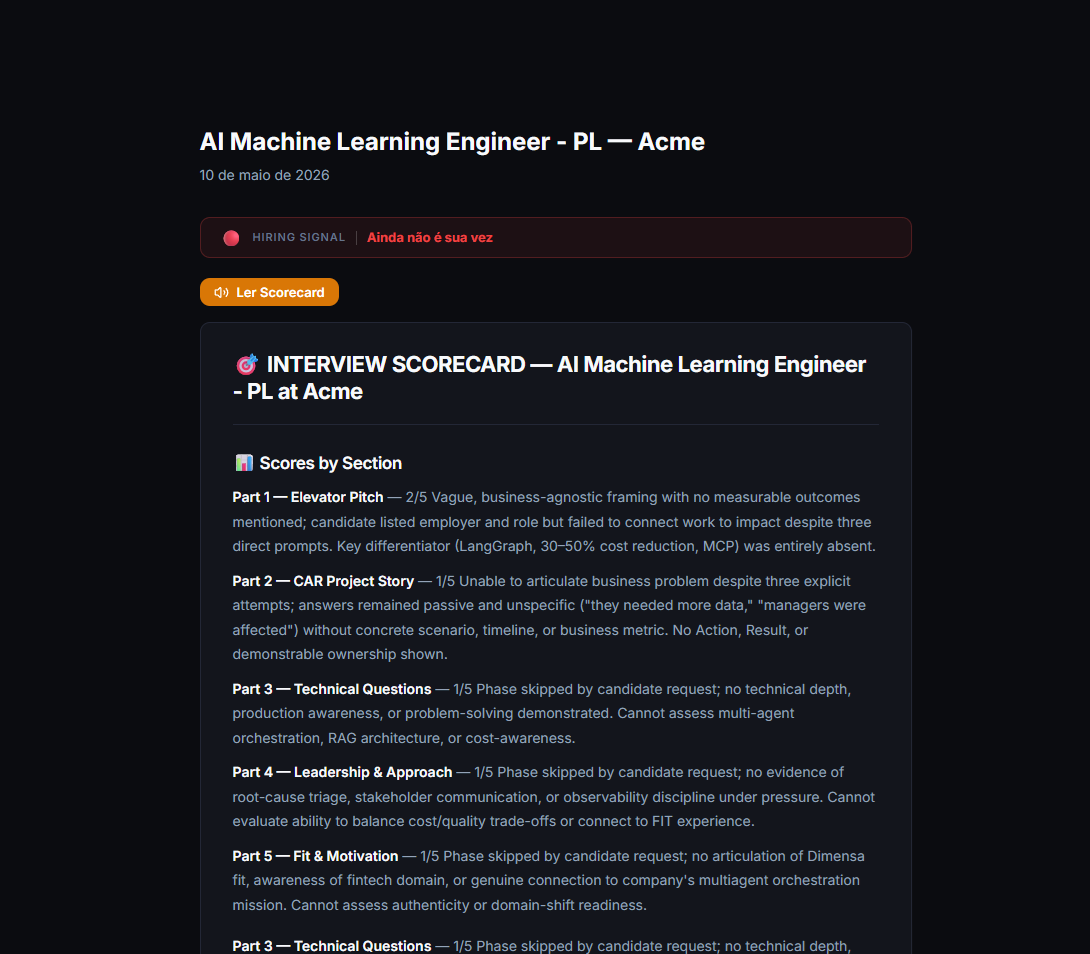
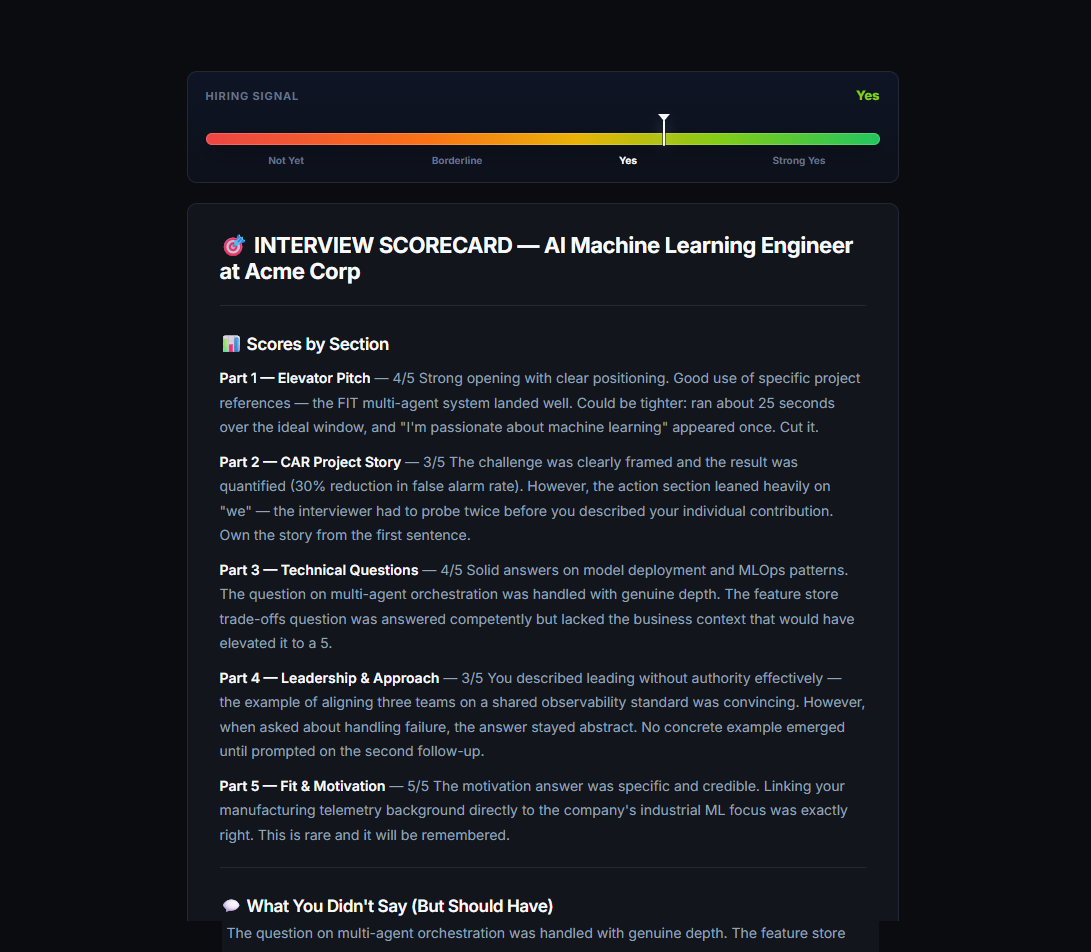
ok

Changed region(s): [[0.1872, 0.2437, 0.811, 1.0], [0.1872, 0.0914, 0.811, 0.2132], [0.811, 0.2437, 0.8422, 0.2742]]

diff --git a/simulador-entrevista/static/demo-scorecard.html b/simulador-entrevista/static/demo-scorecard.html
@@ -63,19 +63,73 @@
 
     /* Hire signal banner */
     .hire-hero {
+      border: 1px solid var(--bg-surface-border);
       border-radius: var(--radius-md);
-      padding: 10px 20px;
+      padding: 14px 18px 16px;
       margin-bottom: 20px;
-      display: flex;
-      flex-direction: row;
+      background: linear-gradient(180deg, rgba(15,23,42,0.78), rgba(15,23,42,0.42));
+      display: grid;
+      grid-template-columns: auto minmax(0, 1fr);
       align-items: center;
-      gap: 10px;
+      gap: 14px 16px;
     }
-    .hire-hero.signal-yes { background: rgba(99,102,241,0.08); border: 1px solid rgba(99,102,241,0.25); }
-    .hire-emoji { font-size: 16px; line-height: 1; flex-shrink: 0; }
-    .hire-label { font-size: 11px; font-weight: 600; letter-spacing: 0.08em; text-transform: uppercase; color: var(--text-tertiary); flex-shrink: 0; }
-    .hire-value { font-size: 13px; font-weight: 700; color: var(--brand-primary); }
-    .hire-sep   { width: 1px; height: 14px; background: currentColor; opacity: 0.2; flex-shrink: 0; }
+    .hire-emoji,
+    .hire-sep { display: none; }
+    .hire-head { display: flex; align-items: center; justify-content: space-between; gap: 16px; }
+    .hire-label { font-size: 11px; font-weight: 700; letter-spacing: 0.08em; text-transform: uppercase; color: var(--text-tertiary); flex-shrink: 0; }
+    .hire-value { justify-self: end; font-size: 13px; font-weight: 800; color: #84cc16; text-align: right; }
+    .hire-scale-wrap { position: relative; grid-column: 1 / -1; padding-top: 13px; }
+    .hire-scale {
+      height: 12px;
+      border-radius: 999px;
+      background: linear-gradient(90deg, #ef4444 0%, #f97316 33%, #eab308 55%, #84cc16 76%, #22c55e 100%);
+      box-shadow: inset 0 0 0 1px rgba(255,255,255,0.18), 0 8px 18px rgba(0,0,0,0.22);
+    }
+    .hire-pointer {
+      position: absolute;
+      top: 0;
+      left: var(--signal-pos, 68%);
+      width: 2px;
+      height: 26px;
+      background: #f8fafc;
+      border-radius: 999px;
+      box-shadow: 0 0 0 1px rgba(15,23,42,0.55), 0 0 14px rgba(248,250,252,0.45);
+      transform: translateX(-50%);
+    }
+    .hire-pointer::before {
+      content: "";
+      position: absolute;
+      top: -6px;
+      left: 50%;
+      width: 0;
+      height: 0;
+      border-left: 6px solid transparent;
+      border-right: 6px solid transparent;
+      border-top: 7px solid #f8fafc;
+      transform: translateX(-50%);
+    }
+    .hire-ticks {
+      display: grid;
+      grid-template-columns: repeat(4, minmax(0, 1fr));
+      gap: 10px;
+      margin-top: 9px;
+    }
+    .hire-tick {
+      min-width: 0;
+      font-size: 10px;
+      line-height: 1.25;
+      font-weight: 650;
+      color: var(--text-tertiary);
+      text-align: center;
+    }
+    .hire-tick.active { color: var(--text-primary); }
+    @media (max-width: 560px) {
+      .hire-hero { padding: 14px; }
+      .hire-hero { grid-template-columns: 1fr; gap: 6px; }
+      .hire-value { justify-self: start; text-align: left; }
+      .hire-ticks { gap: 6px; }
+      .hire-tick { font-size: 9px; }
+    }
 
     /* Scorecard content */
     .scorecard-pre {
@@ -153,11 +207,21 @@
   <div class="page-title">AI Machine Learning Engineer — Acme Corp</div>
   <div class="page-sub">May 10, 2026</div>
 
-  <div class="hire-hero signal-yes">
+  <div class="hire-hero signal-yes" style="--signal-pos:68%">
     <div class="hire-emoji">✅</div>
     <div class="hire-label" data-i18n="demo.scorecard.hiringSignal">Hiring signal</div>
     <div class="hire-sep"></div>
     <div class="hire-value" data-i18n="demo.scorecard.hiringYes">Yes</div>
+    <div class="hire-scale-wrap" aria-hidden="true">
+      <div class="hire-pointer"></div>
+      <div class="hire-scale"></div>
+      <div class="hire-ticks">
+        <div class="hire-tick" data-i18n="scorecard.hireSignals.notYet">Not Yet</div>
+        <div class="hire-tick" data-i18n="scorecard.hireSignals.borderline">Borderline</div>
+        <div class="hire-tick active" data-i18n="scorecard.hireSignals.yes">Yes</div>
+        <div class="hire-tick" data-i18n="scorecard.hireSignals.strongYes">Strong Yes</div>
+      </div>
+    </div>
   </div>
 
   <div class="scorecard-pre" id="scorecard-body"></div>
@@ -178,7 +242,7 @@
 <script>
 lucide.createIcons();
 
-const _DEMO_SCORECARD = `
+const _DEMO_SCORECARD_EN = `
 # 🎯 INTERVIEW SCORECARD — AI Machine Learning Engineer at Acme Corp
 
 ---
@@ -260,7 +324,97 @@ The motivation answer was specific and credible. Linking your manufacturing tele
 > You have the technical substance to get this role — the gap is framing. You currently describe *what happened*; you need to describe *what you chose to do and why*. The difference between a 3/5 and a 5/5 answer is always: "I made a decision. Here it was. Here's why. Here's what it cost and what it gained." Practice that structure on every answer before the real interview.
 `;
 
-document.getElementById('scorecard-body').innerHTML = marked.parse(_DEMO_SCORECARD);
+const _DEMO_SCORECARD_PT = `
+# 🎯 SCORECARD DA ENTREVISTA — Engenheiro de Machine Learning com IA na Acme Corp
+
+---
+
+## 📊 Notas por Seção
+
+**Parte 1 — Elevator Pitch** — 4/5
+A abertura foi forte, com posicionamento claro. O uso de referências específicas a projetos, como o sistema multiagente da FIT, funcionou bem. Poderia ser mais enxuto: passou cerca de 25 segundos da janela ideal, e a frase "sou apaixonado por machine learning" apareceu uma vez. Corte isso.
+
+**Parte 2 — História CAR** — 3/5
+O desafio foi apresentado com clareza e o resultado foi quantificado: redução de 30% na taxa de falsos alarmes. Porém, a parte de ação ficou muito apoiada em "nós". A entrevistadora precisou perguntar duas vezes até você descrever sua contribuição individual. Assuma a história desde a primeira frase.
+
+**Parte 3 — Perguntas Técnicas** — 4/5
+Boas respostas sobre implantação de modelos e padrões de MLOps. A pergunta sobre orquestração multiagente foi respondida com profundidade real. A resposta sobre trade-offs de feature store foi competente, mas faltou o contexto de negócio que levaria a resposta para 5.
+
+**Parte 4 — Liderança e Abordagem** — 3/5
+Você descreveu bem uma situação de liderança sem autoridade formal. O exemplo de alinhar três times em torno de um padrão compartilhado de observabilidade foi convincente. Porém, quando perguntado sobre lidar com falhas, a resposta ficou abstrata. Um exemplo concreto só apareceu depois do segundo follow-up.
+
+**Parte 5 — Fit e Motivação** — 5/5
+A resposta de motivação foi específica e crível. Conectar seu histórico com telemetria industrial ao foco da empresa em ML para indústria foi exatamente o caminho certo. Isso é raro e tende a ser lembrado.
+
+---
+
+## 💬 O Que Você Não Disse, Mas Deveria Ter Dito
+
+**Elevator Pitch:**
+- Você não ancorou a escala do que construiu: quantos operadores? Quantos incidentes por mês? Números fazem a história pousar melhor.
+- "Multiagente" não significa muito para uma pessoa não técnica sem uma explicação de uma frase. Adicione esse enquadramento na próxima vez.
+
+**História CAR:**
+- Você não explicou o custo de negócio do problema *antes* da solução. "4 horas de correlação manual por incidente" teria deixado o resultado de 30% muito mais forte.
+- A métrica de melhoria precisa de uma linha de base e de um período para soar confiável.
+
+**Perguntas Técnicas:**
+- Quando perguntado sobre observabilidade em ML em produção, você cobriu bem logging, mas deixou de mencionar detecção de drift, um diferencial importante para vagas sênior de ML.
+- Você não fez uma pergunta de clarificação antes da resposta de system design. Isso pode sinalizar que você pula para soluções antes de validar o problema.
+
+**Liderança:**
+- Você poderia ter mencionado o impacto cross-functional: quem se beneficiou além da engenharia, e o que isso permitiu para o negócio?
+
+---
+
+## 📝 Vocabulário e Enquadramento Para Praticar
+
+- Troque **"nós trabalhamos em"** por "eu projetei / eu liderei / eu fui responsável por"
+- Troque **"era um problema complexo"** por uma descrição específica da complexidade: "o desafio era que três sistemas de logs não tinham um formato comum de timestamp"
+- Troque **"sou apaixonado por ML"** por "este é o tipo de problema que mais me interessa — e aqui está o porquê:" + um exemplo concreto
+- Pratique começar pelo impacto de negócio: **"O impacto para o negócio foi X"** antes de explicar a solução técnica
+- Use a estrutura: **"Dada [restrição], eu decidi [ação] porque [raciocínio]"**. Isso sinaliza pensamento estruturado e maturidade sênior
+
+---
+
+## 🗣 Desempenho Geral de Comunicação
+
+**Avaliação:** B+ — Claro e estruturado no geral, com alguma vagueza sob pressão
+
+**Padrões recorrentes para corrigir:**
+1. Hesitar antes de responder: "acho que o que eu diria é..." — responda diretamente
+2. Perder força ao falar dos resultados — você começa bem ("reduzimos a taxa de falsos alarmes...") e depois não fecha o número
+3. Usar "nós" quando a entrevistadora está claramente perguntando sobre sua decisão e contribuição individual
+
+---
+
+## 🏁 Avaliação Geral
+
+**Pontuação total:** 19/25
+**Sinal de contratação:** Boas chances de contratação
+
+### ✅ 2 Principais Pontos Fortes
+1. A profundidade técnica é real e atual: LangGraph, MLOps, implantação em produção e sistemas multiagente. Esses temas apareceram naturalmente e podem diferenciar você de candidatos generalistas.
+2. A história de motivação foi específica e conectada à empresa. Você ligou seu histórico em manufatura ao domínio real do produto deles. Isso é raro em entrevistas e muito eficaz.
+
+### 🔧 2 Principais Pontos Para Melhorar Antes da Entrevista Real
+1. **Assuma suas histórias.** Cada "nós fizemos X" precisa virar "eu decidi X, por este motivo, e fiz especificamente isto". Pratique até ficar automático. É a mudança de maior impacto.
+2. **Contexto de negócio antes do detalhe técnico.** Comece cada resposta com o problema de negócio e seu custo, depois explique o que você construiu. Entrevistadores lembram de impacto, não de arquitetura.
+
+### ⚡ Uma Coisa Que Pode Decidir Sua Entrevista
+
+> Você tem substância técnica para conquistar essa vaga. O gap está no enquadramento. Hoje você descreve *o que aconteceu*; precisa descrever *o que escolheu fazer e por quê*. A diferença entre uma resposta 3/5 e uma resposta 5/5 quase sempre é: "eu tomei uma decisão. Foi esta. Este foi o motivo. Este foi o custo e este foi o ganho." Pratique essa estrutura em todas as respostas antes da entrevista real.
+`;
+
+function renderDemoScorecard(lang) {
+  const selected = lang === 'pt' ? _DEMO_SCORECARD_PT : _DEMO_SCORECARD_EN;
+  document.getElementById('scorecard-body').innerHTML = marked.parse(selected);
+}
+
+renderDemoScorecard(window.i18n?.currentLang?.() || 'en');
+document.addEventListener('i18n:ready', (event) => {
+  renderDemoScorecard(event.detail?.lang || window.i18n?.currentLang?.() || 'en');
+});
 </script>
 </body>
 </html>

diff --git a/simulador-entrevista/static/scorecard.html b/simulador-entrevista/static/scorecard.html
@@ -114,24 +114,73 @@
     /* Hire signal banner */
     .hire-hero {
       display: none;
+      border: 1px solid var(--bg-surface-border);
       border-radius: var(--radius-md);
-      padding: 10px 20px;
+      padding: 14px 18px 16px;
       margin-bottom: 20px;
-      flex-direction: row;
-      align-items: center;
-      gap: 10px;
+      background: linear-gradient(180deg, rgba(15,23,42,0.78), rgba(15,23,42,0.42));
+      flex-direction: column;
+      gap: 14px;
     }
-    .hire-hero.signal-strong-yes { background: rgba(34,197,94,0.08);  border: 1px solid rgba(34,197,94,0.25); }
-    .hire-hero.signal-yes        { background: rgba(99,102,241,0.08); border: 1px solid rgba(99,102,241,0.25); }
-    .hire-hero.signal-borderline { background: rgba(234,179,8,0.08);  border: 1px solid rgba(234,179,8,0.25); }
-    .hire-hero.signal-not-yet    { background: rgba(239,68,68,0.08);  border: 1px solid rgba(239,68,68,0.25); }
-    .hire-emoji { font-size: 16px; line-height: 1; flex-shrink: 0; }
-    .hire-label { font-size: 11px; font-weight: 600; letter-spacing: 0.08em; text-transform: uppercase; color: var(--text-tertiary); flex-shrink: 0; }
-    .hire-value { font-size: 13px; font-weight: 700; }
+    .hire-head { display: flex; align-items: center; justify-content: space-between; gap: 16px; }
+    .hire-label { font-size: 11px; font-weight: 700; letter-spacing: 0.08em; text-transform: uppercase; color: var(--text-tertiary); flex-shrink: 0; }
+    .hire-value { font-size: 13px; font-weight: 800; text-align: right; }
     .hire-hero.signal-strong-yes .hire-value { color: #22c55e; }
-    .hire-hero.signal-yes        .hire-value { color: var(--brand-primary); }
-    .hire-hero.signal-borderline .hire-value { color: #eab308; }
-    .hire-hero.signal-not-yet    .hire-value { color: #ef4444; }
+    .hire-hero.signal-yes        .hire-value { color: #84cc16; }
+    .hire-hero.signal-borderline .hire-value { color: #f59e0b; }
+    .hire-hero.signal-not-yet    .hire-value { color: #f43f5e; }
+    .hire-scale-wrap { position: relative; padding-top: 13px; }
+    .hire-scale {
+      height: 12px;
+      border-radius: 999px;
+      background: linear-gradient(90deg, #ef4444 0%, #f97316 33%, #eab308 55%, #84cc16 76%, #22c55e 100%);
+      box-shadow: inset 0 0 0 1px rgba(255,255,255,0.18), 0 8px 18px rgba(0,0,0,0.22);
+    }
+    .hire-pointer {
+      position: absolute;
+      top: 0;
+      left: var(--signal-pos, 0%);
+      width: 2px;
+      height: 26px;
+      background: #f8fafc;
+      border-radius: 999px;
+      box-shadow: 0 0 0 1px rgba(15,23,42,0.55), 0 0 14px rgba(248,250,252,0.45);
+      transform: translateX(-50%);
+    }
+    .hire-pointer::before {
+      content: "";
+      position: absolute;
+      top: -6px;
+      left: 50%;
+      width: 0;
+      height: 0;
+      border-left: 6px solid transparent;
+      border-right: 6px solid transparent;
+      border-top: 7px solid #f8fafc;
+      transform: translateX(-50%);
+    }
+    .hire-ticks {
+      display: grid;
+      grid-template-columns: repeat(4, minmax(0, 1fr));
+      gap: 10px;
+      margin-top: 9px;
+    }
+    .hire-tick {
+      min-width: 0;
+      font-size: 10px;
+      line-height: 1.25;
+      font-weight: 650;
+      color: var(--text-tertiary);
+      text-align: center;
+    }
+    .hire-tick.active { color: var(--text-primary); }
+    @media (max-width: 560px) {
+      .hire-hero { padding: 14px; }
+      .hire-head { align-items: flex-start; flex-direction: column; gap: 6px; }
+      .hire-value { text-align: left; }
+      .hire-ticks { gap: 6px; }
+      .hire-tick { font-size: 9px; }
+    }
 
     /* Paywall state */
     #paywall-state {
@@ -194,10 +243,15 @@
     <div class="page-sub" id="scorecard-sub"></div>
 
     <div class="hire-hero" id="hire-hero">
-      <div class="hire-emoji" id="hire-emoji"></div>
-      <div class="hire-label" data-i18n="scorecard.hireLabel">Hiring signal</div>
-      <div style="width:1px;height:14px;background:currentColor;opacity:0.2;flex-shrink:0"></div>
-      <div class="hire-value" id="hire-value"></div>
+      <div class="hire-head">
+        <div class="hire-label" data-i18n="scorecard.hireLabel">Hiring signal</div>
+        <div class="hire-value" id="hire-value"></div>
+      </div>
+      <div class="hire-scale-wrap" aria-hidden="true">
+        <div class="hire-pointer" id="hire-pointer"></div>
+        <div class="hire-scale"></div>
+        <div class="hire-ticks" id="hire-ticks"></div>
+      </div>
     </div>
 
     <div class="tts-toolbar" style="display:flex;gap:8px;align-items:center;">
@@ -253,19 +307,25 @@
   }
 
   const _HIRE_SIGNAL_CONFIG = {
-    'Strong Yes': { cls: 'signal-strong-yes', emoji: '🟢', i18nKey: 'scorecard.hireSignals.strongYes' },
-    'Yes':        { cls: 'signal-yes',        emoji: '✅', i18nKey: 'scorecard.hireSignals.yes'       },
-    'Borderline': { cls: 'signal-borderline', emoji: '🟡', i18nKey: 'scorecard.hireSignals.borderline'},
-    'Not Yet':    { cls: 'signal-not-yet',    emoji: '🔴', i18nKey: 'scorecard.hireSignals.notYet'   },
+    'Strong Yes': { cls: 'signal-strong-yes', emoji: '🟢', i18nKey: 'scorecard.hireSignals.strongYes', pos: 96 },
+    'Yes':        { cls: 'signal-yes',        emoji: '✅', i18nKey: 'scorecard.hireSignals.yes',       pos: 68 },
+    'Borderline': { cls: 'signal-borderline', emoji: '🟡', i18nKey: 'scorecard.hireSignals.borderline',pos: 36 },
+    'Not Yet':    { cls: 'signal-not-yet',    emoji: '🔴', i18nKey: 'scorecard.hireSignals.notYet',   pos: 4  },
   };
+  const _HIRE_SIGNAL_SCALE = ['Not Yet', 'Borderline', 'Yes', 'Strong Yes'];
 
   function _showHireHero(hireSignal) {
     const cfg = _HIRE_SIGNAL_CONFIG[hireSignal];
     if (!cfg) return;
     const hero = document.getElementById('hire-hero');
-    hero.classList.add(cfg.cls);
-    document.getElementById('hire-emoji').textContent = cfg.emoji;
+    hero.className = 'hire-hero ' + cfg.cls;
+    hero.style.setProperty('--signal-pos', `${cfg.pos}%`);
     document.getElementById('hire-value').textContent  = window.t ? window.t(cfg.i18nKey) : hireSignal;
+    document.getElementById('hire-ticks').innerHTML = _HIRE_SIGNAL_SCALE.map(signal => {
+      const tickCfg = _HIRE_SIGNAL_CONFIG[signal];
+      const label = window.t ? window.t(tickCfg.i18nKey) : signal;
+      return `<div class="hire-tick ${signal === hireSignal ? 'active' : ''}">${label}</div>`;
+    }).join('');
     hero.style.display = 'flex';
   }
 
